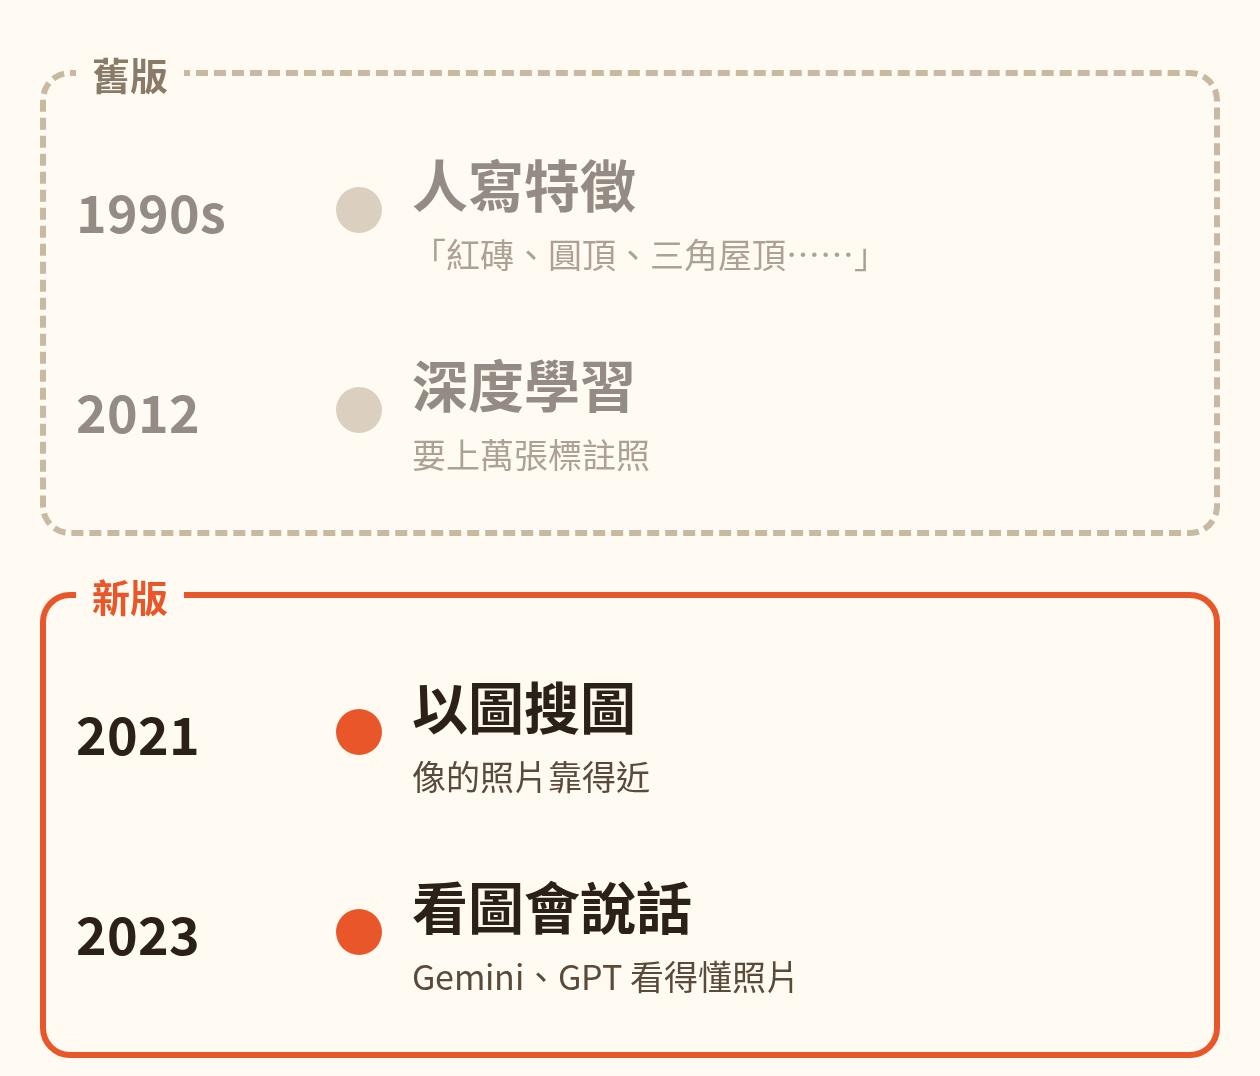
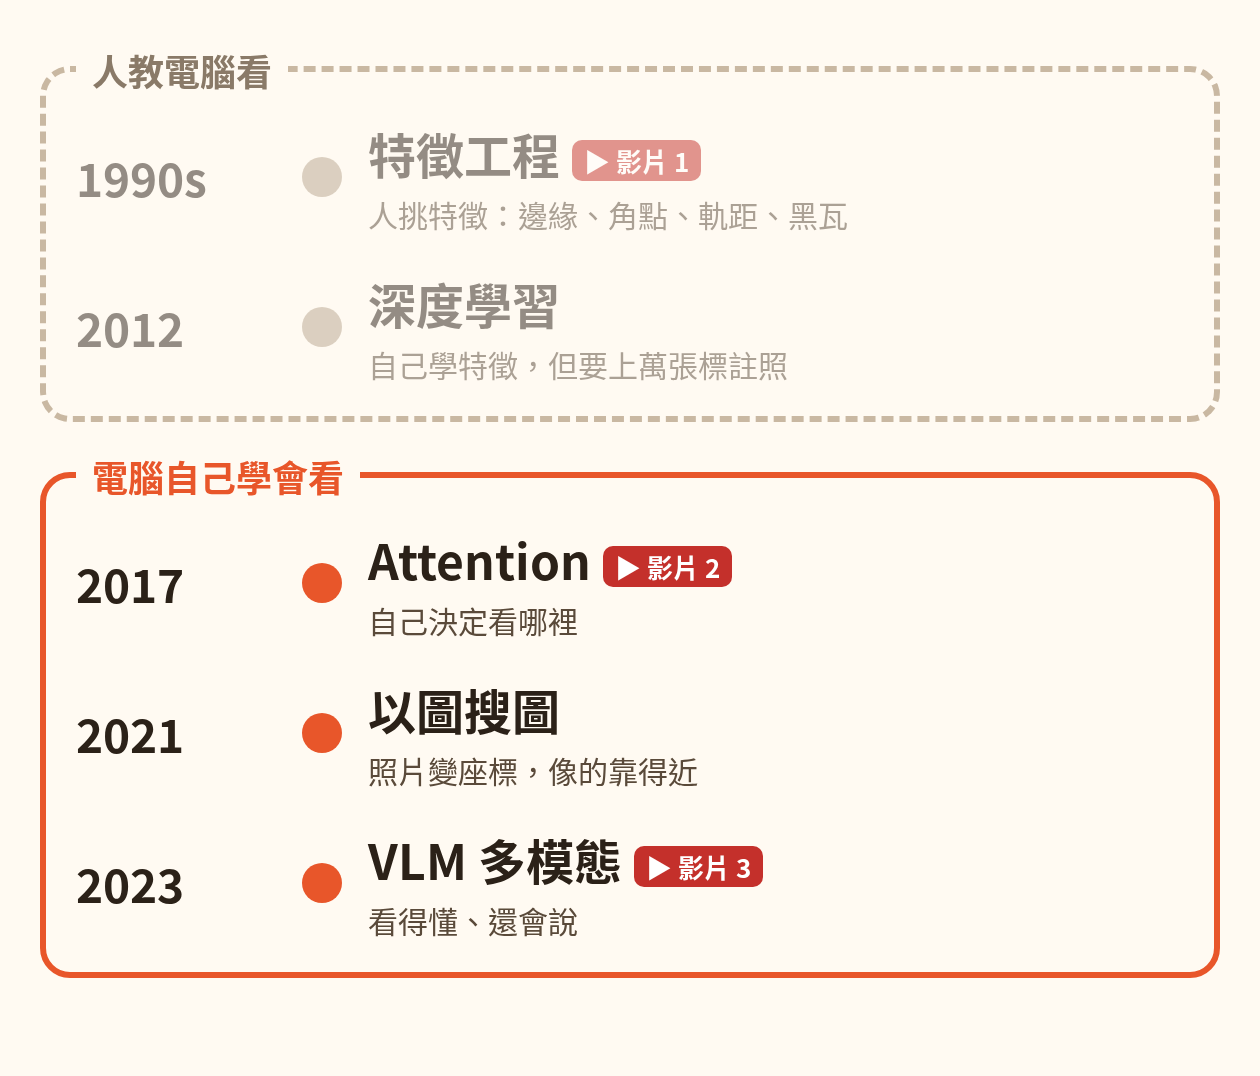
[pm] feat: 時代軸補 attention、標影片 1–3

diff --git a/assets/src/s1-04-era.html b/assets/src/s1-04-era.html
@@ -1,13 +1,15 @@
-<!doctype html><meta charset="utf-8"><link rel="stylesheet" href="_sq.css"><style>.z{border-radius:30px;padding:34px 30px 20px;position:relative;margin-top:30px}
-.z .lab{position:absolute;top:-30px;left:30px;background:#fffaf2;padding:0 16px;font-size:38px;font-weight:700}
-.e{display:flex;align-items:center;gap:30px;height:200px}.y{width:230px;font-size:52px;font-weight:700}
-.dot{width:46px;height:46px;border-radius:50%;background:#e8562a;flex:none}
-.nm{font-size:56px;font-weight:700}.ds{font-size:34px;color:#5a4a3a;margin-top:6px}.old{opacity:.5}.old .dot{background:#b9a68f}</style>
+<!doctype html><meta charset="utf-8"><link rel="stylesheet" href="_sq.css"><style>.z{border-radius:30px;padding:30px 30px 14px;position:relative;margin-top:26px}
+.z .lab{position:absolute;top:-28px;left:30px;background:#fffaf2;padding:0 16px;font-size:36px;font-weight:700}
+.e{display:flex;align-items:center;gap:26px;height:150px}.y{width:200px;font-size:46px;font-weight:700}
+.dot{width:40px;height:40px;border-radius:50%;background:#e8562a;flex:none}
+.nm{font-size:48px;font-weight:700}.ds{font-size:30px;color:#5a4a3a;margin-top:4px}.old{opacity:.5}.old .dot{background:#b9a68f}
+.v{font-size:26px;color:#fff;background:#c4302b;border-radius:10px;padding:2px 12px;margin-left:12px;vertical-align:middle}</style>
 <div id="card">
-<div class="z" style="border:6px dashed #c9b8a2"><div class="lab muted">舊版</div>
-<div class="e old"><div class="y">1990s</div><div class="dot"></div><div><div class="nm">人寫特徵</div><div class="ds">「紅磚、圓頂、三角屋頂……」</div></div></div>
-<div class="e old"><div class="y">2012</div><div class="dot"></div><div><div class="nm">深度學習</div><div class="ds">要上萬張標註照</div></div></div></div>
-<div class="z" style="border:6px solid #e8562a;margin-top:56px"><div class="lab" style="color:#e8562a">新版</div>
-<div class="e"><div class="y">2021</div><div class="dot"></div><div><div class="nm">以圖搜圖</div><div class="ds">像的照片靠得近</div></div></div>
-<div class="e"><div class="y">2023</div><div class="dot"></div><div><div class="nm">看圖會說話</div><div class="ds">Gemini、GPT 看得懂照片</div></div></div></div>
+<div class="z" style="border:6px dashed #c9b8a2"><div class="lab muted">人教電腦看</div>
+<div class="e old"><div class="y">1990s</div><div class="dot"></div><div><div class="nm">特徵工程<span class="v">▶ 影片 1</span></div><div class="ds">人挑特徵：邊緣、角點、軌距、黑瓦</div></div></div>
+<div class="e old"><div class="y">2012</div><div class="dot"></div><div><div class="nm">深度學習</div><div class="ds">自己學特徵，但要上萬張標註照</div></div></div></div>
+<div class="z" style="border:6px solid #e8562a;margin-top:50px"><div class="lab" style="color:#e8562a">電腦自己學會看</div>
+<div class="e"><div class="y">2017</div><div class="dot"></div><div><div class="nm">Attention<span class="v">▶ 影片 2</span></div><div class="ds">自己決定看哪裡</div></div></div>
+<div class="e"><div class="y">2021</div><div class="dot"></div><div><div class="nm">以圖搜圖</div><div class="ds">照片變座標，像的靠得近</div></div></div>
+<div class="e"><div class="y">2023</div><div class="dot"></div><div><div class="nm">VLM 多模態<span class="v">▶ 影片 3</span></div><div class="ds">看得懂、還會說</div></div></div></div>
 </div>
